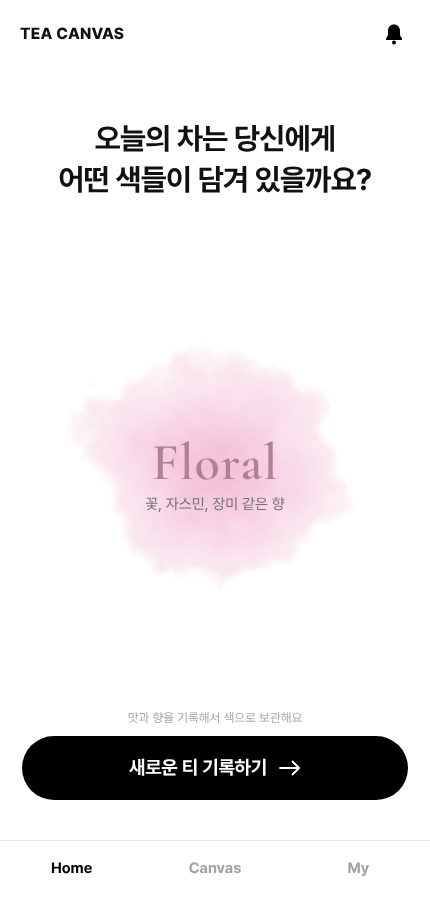
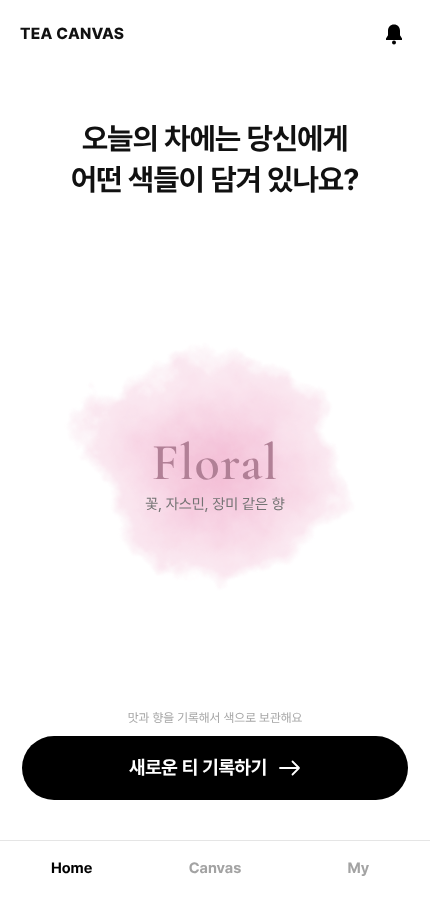
v5 home: headline copy update
Claude-Session: https://claude.ai/code/session_01VYi7RYbVTTHX5Zvyr9oi23

Changed region(s): [[0.1209, 0.1244, 0.8767, 0.2178]]

diff --git a/TEA_CANVAS_prototype_v5.html b/TEA_CANVAS_prototype_v5.html
@@ -1020,7 +1020,7 @@ const SCREENS = {
 
 home(){
   return `<div class="home">
-    <h1 class="home-q ${HQ}" style="margin-top:${HL.qt}px">${/split/.test(HQ)?'<em>오늘의 차는 당신에게</em>어떤 색들이 담겨 있을까요?':'오늘의 차는 당신에게<br>어떤 색들이 담겨 있을까요?'}</h1>
+    <h1 class="home-q ${HQ}" style="margin-top:${HL.qt}px">${/split/.test(HQ)?'<em>오늘의 차에는 당신에게</em>어떤 색들이 담겨 있나요?':'오늘의 차에는 당신에게<br>어떤 색들이 담겨 있나요?'}</h1>
     <div class="home-drop" id="homeDrop"></div>
     <p class="home-note" style="margin-bottom:${HL.nb}px;font-size:${HL.ns}px">맛과 향을 기록해서 색으로 보관해요</p>
     <button class="bigbtn" style="margin-bottom:${HL.bb}px" onclick="startRecord()"><span>새로운 티 기록하기</span><i>${I.arrow}</i></button>
